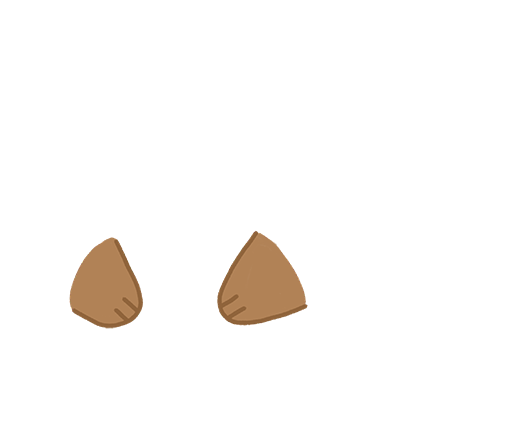
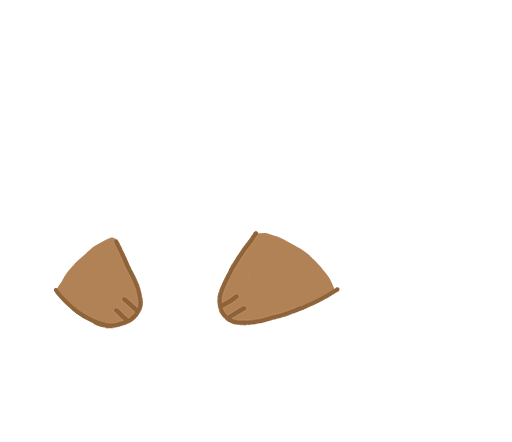
fix: Added the beaver arms to the document page. (#26)
fix: Fixed clipping issues between the beaver's arms and the banner.

Changed region(s): [[0.5, 0.5294, 0.6562, 0.7059], [0.0938, 0.5882, 0.1562, 0.7059], [0.1562, 0.5588, 0.1875, 0.5882]]

diff --git a/src/pages/DocumentsPage.jsx b/src/pages/DocumentsPage.jsx
@@ -1,5 +1,6 @@
 import { useEffect, useState } from 'react'
 import beaver from '../assets/beaver.png'
+import beaverArms from '../assets/beaverArms.png'
 import DocumentCard from '../components/DocumentCard'
 import Dropzone from '../components/DocumentDropzone'
 import FormMessage from '../components/FormMessage'
@@ -183,6 +184,12 @@ function DocumentsPage() {
       </header>
 
       <img src={beaver} alt="" aria-hidden="true" className={BEAVER_POSITION} />
+      <img
+        src={beaverArms}
+        alt=""
+        aria-hidden="true"
+        className={`${BEAVER_POSITION} z-20`}
+      />
 
       <div className="relative z-10 flex min-h-0 flex-1 flex-col gap-4">
         <div className="rounded-[1.75rem] bg-brand-blue p-4 sm:rounded-[2.5rem] sm:p-6">
